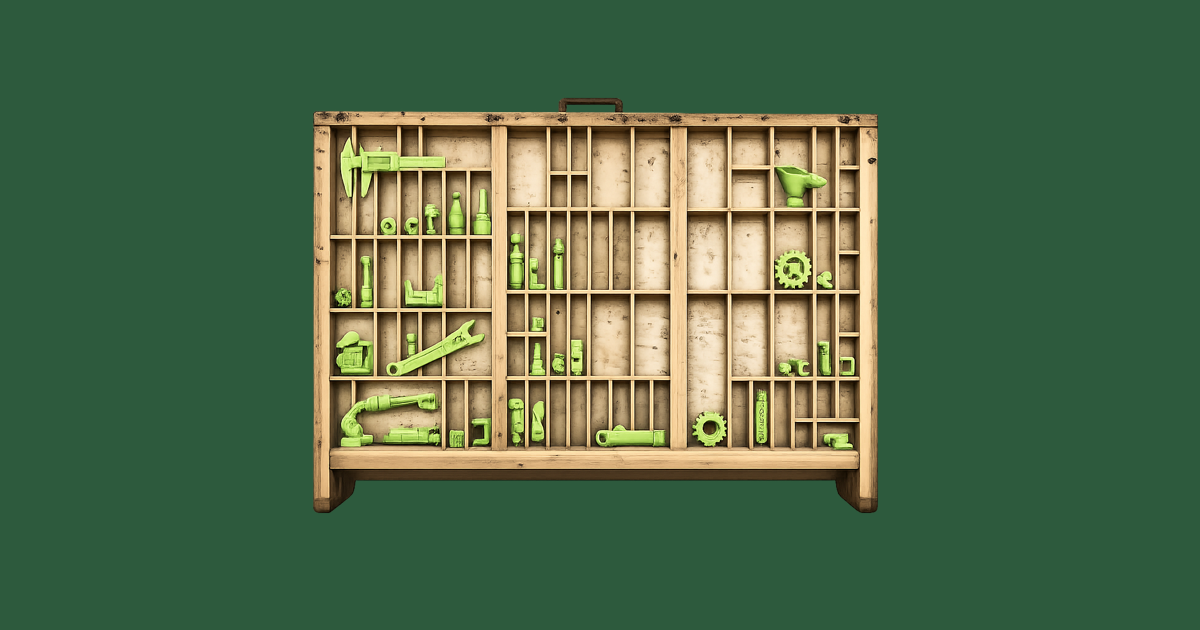
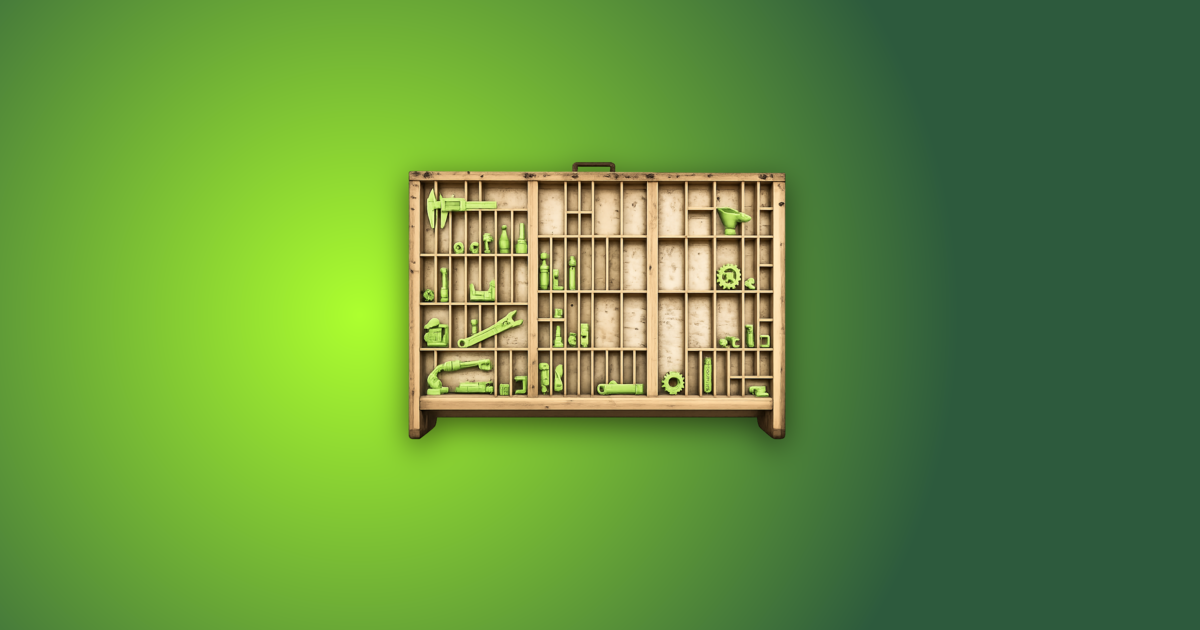
Fix chopping block OG image and document generation process
- Regenerate og-the-chopping-block-v2.png with proper radial gradient
  matching other post OG cards (was flat dark green, now offset gradient)
- Add OG image generation command to POST_CREATION_SYSTEM.md so future
  posts automatically get the correct branded social card

diff --git a/lab/templates/POST_CREATION_SYSTEM.md b/lab/templates/POST_CREATION_SYSTEM.md
@@ -319,6 +319,26 @@ Reference: `../../assets/blog/{{POST_SLUG}}/descriptive-name.png`
 - **Accent** (`post-figure figure-accent`): max-width 320px — for small secondary/portrait images
 - **Wide** (`post-figure figure-wide`): for panoramic/screenshots
 
+### OG / Social Image (1200x630)
+Every post needs a branded OG image at `assets/social/og-{{POST_SLUG}}-v2.png`.
+
+**Generate with ImageMagick:**
+```bash
+magick -size 1200x630 xc:none \
+  \( -size 1200x630 radial-gradient:"#adff2f-#2d5a3d" \
+     -distort SRT "600,315 1 0 360,315" \) \
+  -composite \
+  \( assets/blog/{{POST_SLUG}}/hero-{{POST_SLUG}}.png \
+     -resize x420 \
+     \( +clone -background black -shadow 60x15+0+8 \) \
+     +swap -background none -layers merge +repage \
+  \) \
+  -gravity center -composite \
+  assets/social/og-{{POST_SLUG}}-v2.png
+```
+
+This produces: green radial gradient (bright center offset left, dark edges) with the hero image centered at 420px height and a subtle drop shadow. Matches all existing OG cards.
+
 ### Shared Images
 Reference existing: `../../assets/blog/image-name.png`
 
